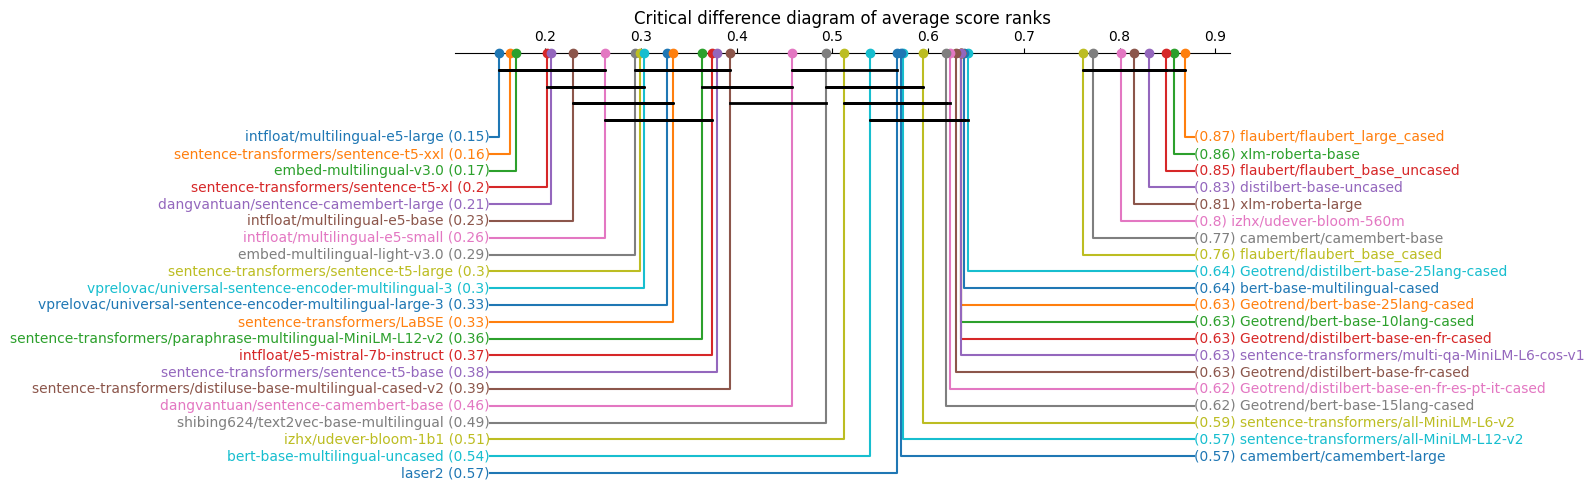
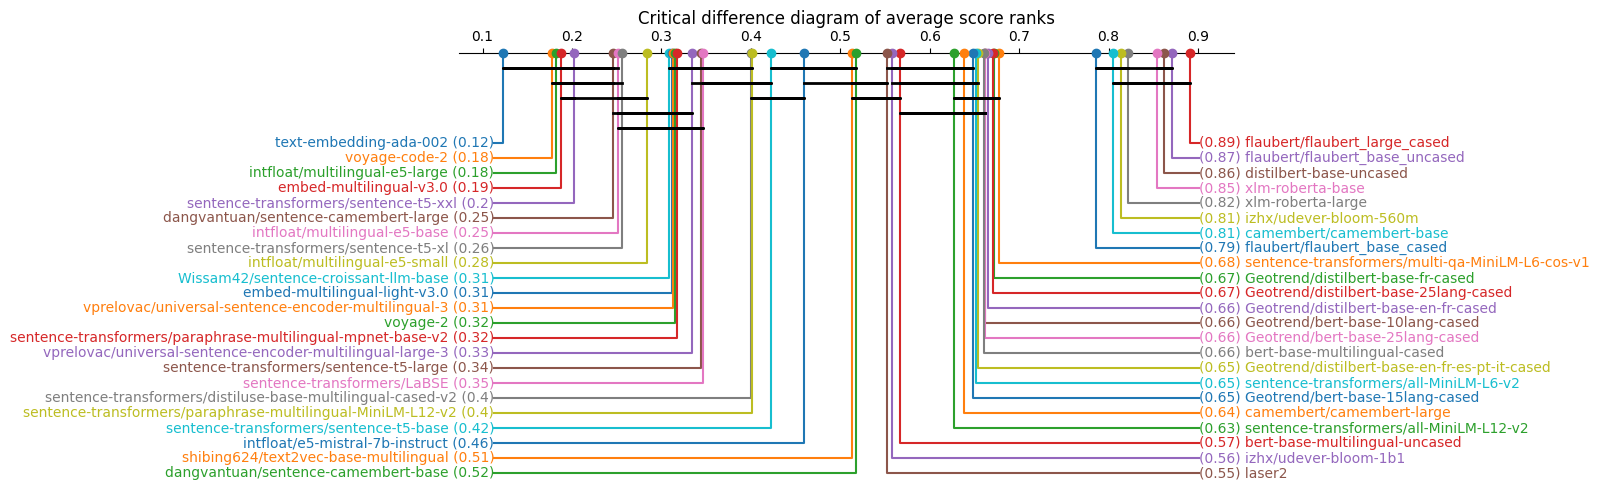
new stats with final models

Changed region(s): [[0.0, 0.0, 1.0, 0.9524], [0.2767, 0.0595, 0.3074, 0.0893]]

diff --git a/script_mteb_french/results_analysis/statistical_tests.py b/script_mteb_french/results_analysis/statistical_tests.py
@@ -27,7 +27,7 @@ def parse_args() -> Namespace:
 
 
 def run_statistical_tests(data: pd.DataFrame, output_path: str):
-    results_lists = list(data.values[:, 1:])
+    results_lists = list(data.fillna(0).values[:, 1:])
     friedman_stats = friedmanchisquare(*results_lists)
     print(f"Running friedman test on {len(results_lists)} models...")
     if friedman_stats.pvalue < 0.05:
@@ -35,6 +35,7 @@ def run_statistical_tests(data: pd.DataFrame, output_path: str):
             f"There is a significant difference between the models (p-value: {friedman_stats.pvalue}). Running post-hoc tests..."
         )
         data_melted = data.melt(id_vars="model", var_name="dataset", value_name="score")
+        data_melted = data_melted.dropna(axis=0, how='any')
         avg_rank = (
             data_melted.groupby("dataset")
             .score.rank(pct=True, ascending=False)
@@ -67,17 +68,9 @@ if __name__ == "__main__":
     args = parse_args()
     rp = ResultsParser()
     results_df = rp(args.results_folder, return_main_scores=False)
-    results_df = results_df.drop(
-        columns=[
-            ("BitextMining", "DiaBLaBitextMining"),
-            ("BitextMining", "FloresBitextMining"),
-        ]
-    )
     results_df = results_df.droplevel(0, axis=1)
     results_df = results_df.reset_index()
     results_df["model"] = results_df["model"].apply(
         lambda x: x.replace(args.results_folder, "")
     )
-    # this should not be necessary with final csv
-    results_df = results_df.dropna(axis=1, how='all').dropna(axis=0, how='any')
     run_statistical_tests(results_df, args.output_folder)
